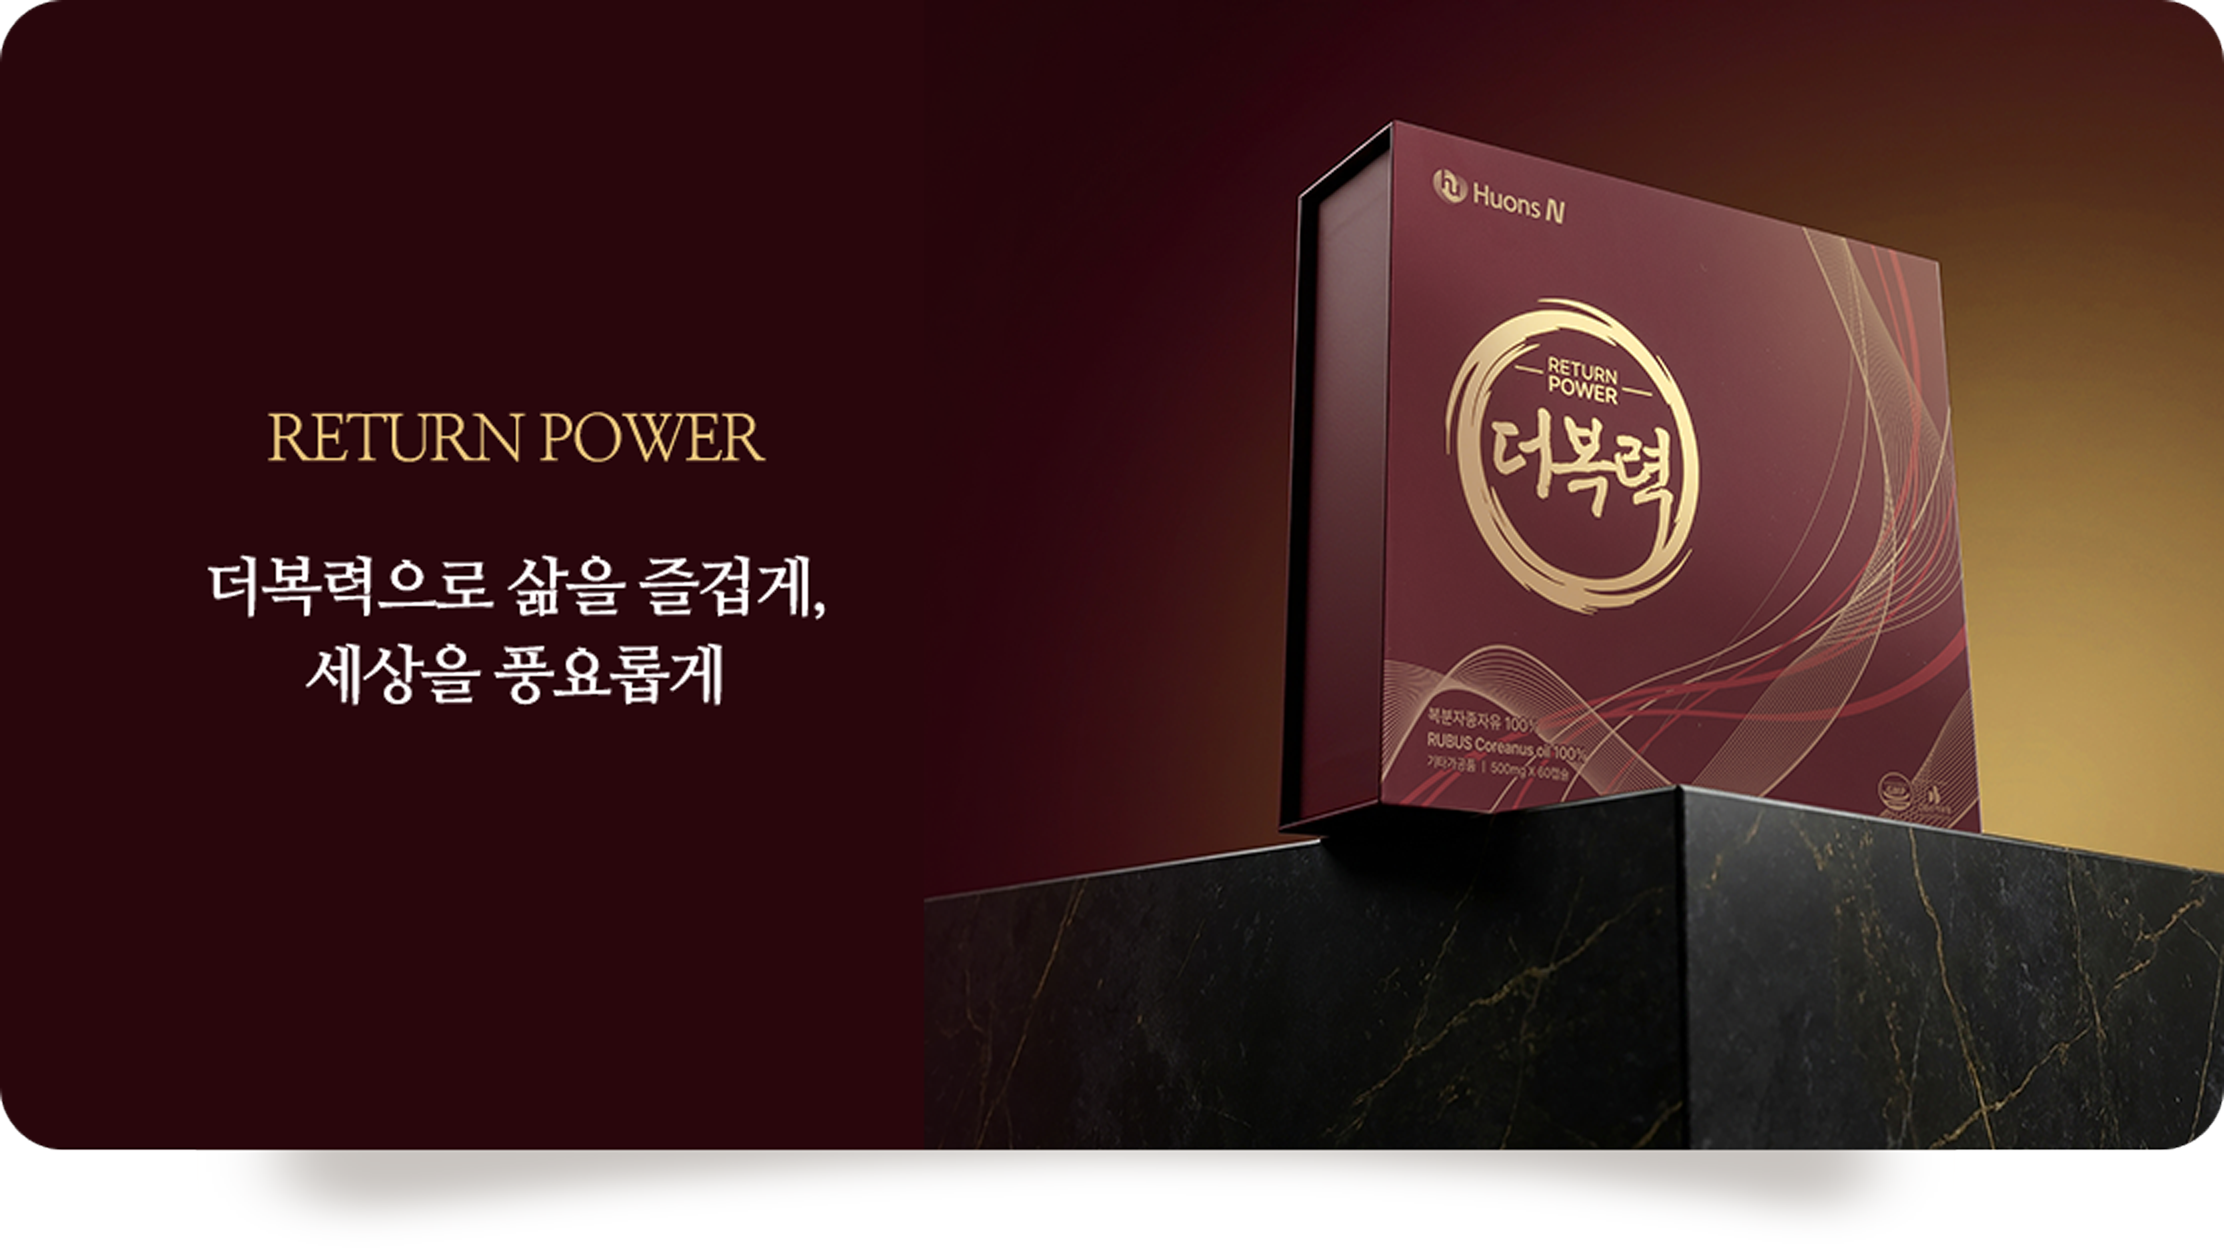
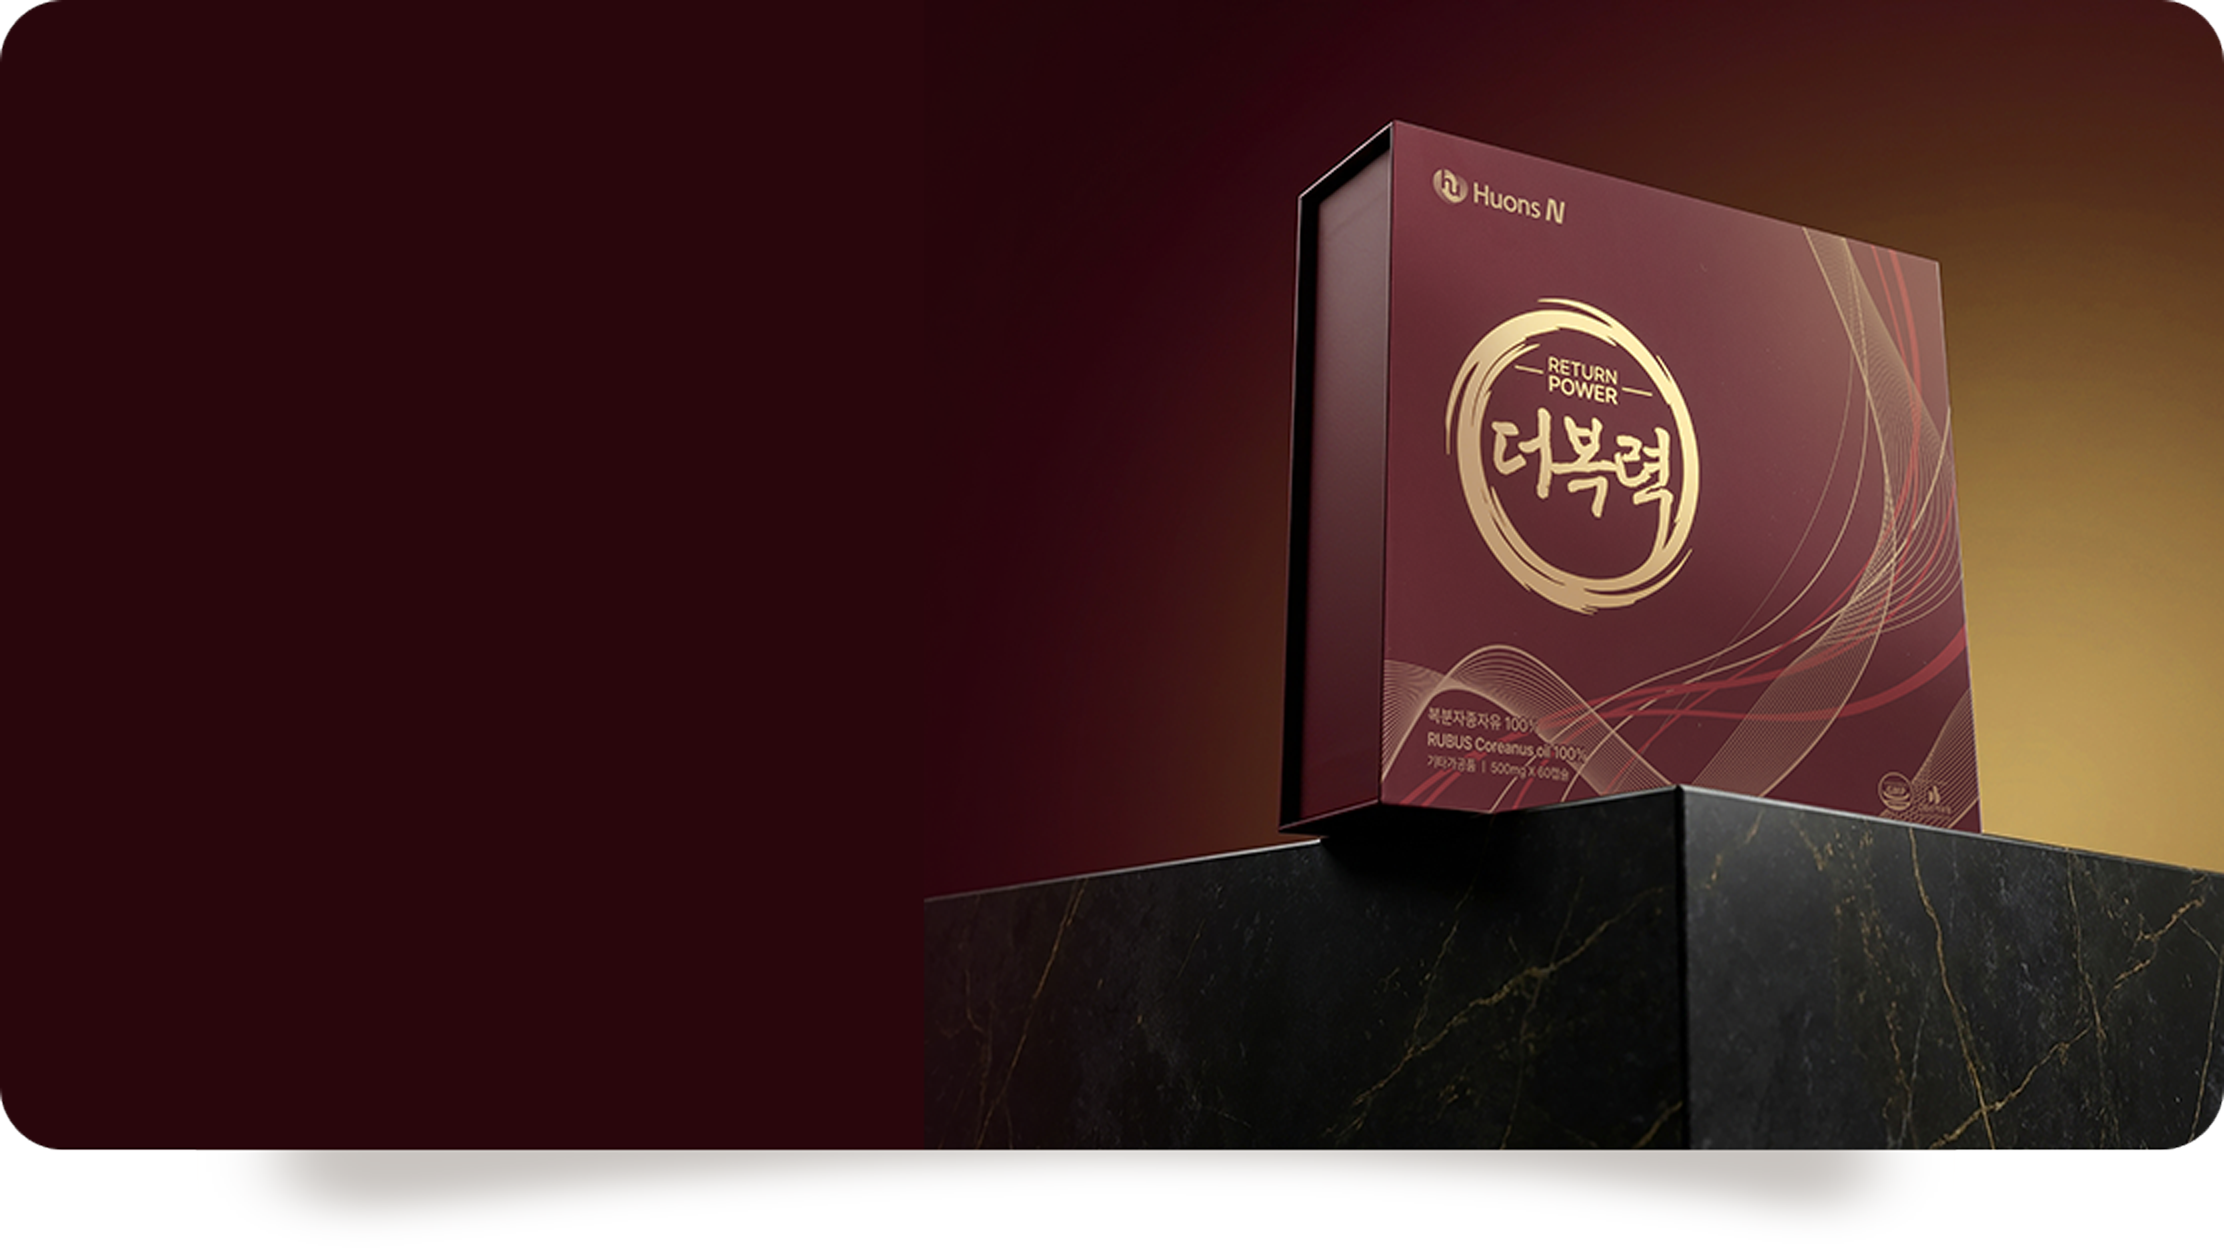
v2 sec15

Changed region(s): [[0.0931, 0.4347, 0.3723, 0.5589], [0.1241, 0.3105, 0.3413, 0.3726]]

diff --git a/css/power_v2.css b/css/power_v2.css
@@ -316,7 +316,10 @@ h2,
 /* sec15 */
 .sec-cont15 {background-color: #fee8e8;}
 .sec-cont15 .sec-inner {padding-bottom:0;}
-.sec15-img {max-width: 1112px; margin:1.5em auto; font-size: var(--flex-title);}
+.sec15-img {position: relative; max-width: 1112px; margin:1.5em auto; font-size: var(--flex-title);}
+.sec-cont15 .sec15-img .text-1 {position: absolute; top:46%; left:7%; transform: translateY(-50%); color:#fff; margin:0;}
+.sec-cont15 .sec15-img .text-1 > * {display: block; margin:1em 0;}
+
 
 
 /* animation */

diff --git a/html/power_v2.html b/html/power_v2.html
@@ -274,6 +274,7 @@
         </h2>    
         <div class="sec15-img">
           <img src="../images/v2/sec15_img.png" alt="RETURN POWER 더복력으로 삶을 즐겁게, 세상을 풍요롭게">
+          <p class="text-1 nanumMyeongjo"><span class="fc-gold">RETURN POWER</span> <strong>더복력으로 삶을 즐겁게, <br>세상을 풍요롭게</strong></p>
         </div>    
       </div>
     </section>
